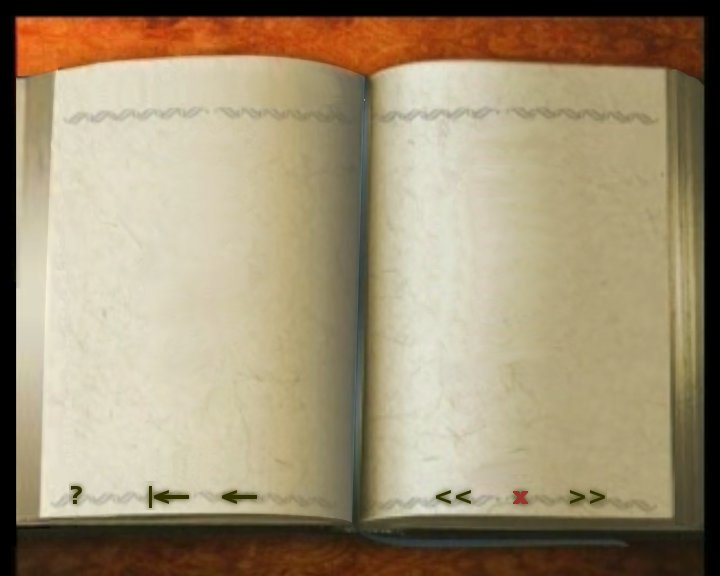
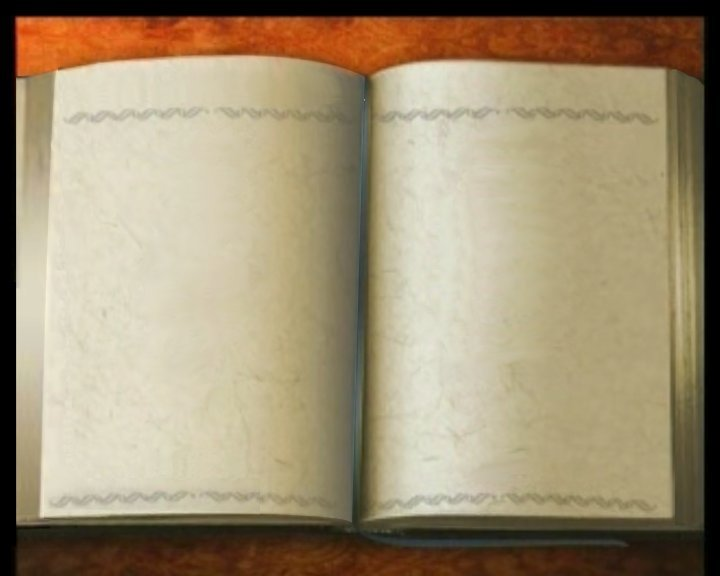
1.4.1 Added ability to render in one column. Removed control buttons from web video output. Fixed bugs.

diff --git a/chrome/word-dvd/content/web/text.js b/chrome/word-dvd/content/web/text.js
@@ -1,7 +1,7 @@
 // JavaScript Document
 const SPACE = " ";
 var MainWin, RenderWin;
-var PageElem1, PageElem2, Body;
+var PageElem1, PageElem2,Body;
 var DebugChapter=0;
 var DebugPage=0;
 
@@ -17,14 +17,16 @@ if (MainWin.CssFile) {
 }
   
 function init() {
-  PageElem1 = document.getElementById("p1");
-  PageElem2 = document.getElementById("p2");
+  PageElem1 = document.getElementById("text-p1");
+  PageElem2 = document.getElementById("text-p2");
   Body = document.getElementById("body");
   RenderWin = window.frameElement.ownerDocument.defaultView;
   var rule1 = getCSS(".title-1");
   var rule2 = getCSS(".title-2");
   CSSHeading1Color = rule1.style.color;
   CSSHeading2Color = rule2.style.color;
+  if (!MainWin.document.getElementById("runvideo").selected) 
+	document.getElementById("text-controls").setAttribute("src", "file://" + MainWin.UIfile[MainWin.INDIR].path + "/" + MainWin.RESOURCE + "/control-buttons.png");
 }
 
 function fitScreen(book, chapter, aPage, textOnly, skipPage1, skipPage2) {

diff --git a/chrome/word-dvd/content/render.js b/chrome/word-dvd/content/render.js
@@ -380,7 +380,6 @@ function renderNewScreen() {
   mdoc.getElementById("imagePageLeft").style.visibility = "hidden";
   mdoc.getElementById("imagePageRight").style.visibility = "hidden";
   var skipPage1 = false;
-  var skipPage2 = false;
   var artwork;
   if (Page.pagenumber==1 && Chapter==1) artwork = getSubFilePath(MainWin.UIfile[MainWin.INDIR], Book[Bindex].shortName + "-1" + ".png");
   if (artwork) {
@@ -388,6 +387,8 @@ function renderNewScreen() {
     mdoc.getElementById("imagePageLeft").src = "File://" + artwork;
     mdoc.getElementById("imagePageLeft").style.visibility = "visible";
   }
+  var tstyle = mdoc.defaultView.getComputedStyle(mdoc.getElementById("text-p2"), null);
+  var skipPage2 = (tstyle.visibility == "hidden"); // this allows single column display by setting text-p2 visibility=hidden
   
   RenderFrame.contentDocument.defaultView.fitScreen(Book[Bindex].shortName, Chapter, Page, false, skipPage1, skipPage2);
 //window.alert("STOPPING");

diff --git a/chrome/word-dvd/content/web/menu.html b/chrome/word-dvd/content/web/menu.html
@@ -8,7 +8,7 @@
   </head>
   <body id="body" class="menu" onload="init();">
     <div class="usable">
-      <div id="p1" class="page">
+      <div id="menu-p1" class="page">
         <div class="header" id="p1head"></div>
         <div class="button" id="p1b1"></div>
         <div class="button" id="p1b2"></div>
@@ -20,7 +20,7 @@
         <div class="button" id="p1b8"></div>
         <div class="navbutton" id="p1foot"></div>
       </div> 
-      <div id="p2" class="page">
+      <div id="menu-p2" class="page">
         <div class="header" id="p2head"></div>
         <div class="button" id="p2b1"></div>
         <div class="button" id="p2b2"></div>

diff --git a/html/pal.css b/html/pal.css
@@ -38,7 +38,7 @@ body {
   padding-bottom:12px;
 }
 
-#p1 {
+#menu-p1 {
   margin-right:18px;
   top:0px;
   right:50%;
@@ -46,7 +46,23 @@ body {
   left:0px;
 }
 
-#p2 {
+#menu-p2 {
+  margin-left:18px;
+  top:0px;
+  right:0px;
+  bottom:45px;
+  left:50%;
+}
+
+#text-p1 {
+  margin-right:18px;
+  top:0px;
+  right:50%;
+  bottom:45px;
+  left:0px;
+}
+
+#text-p2 {
   margin-left:18px;
   top:0px;
   right:0px;
@@ -147,6 +163,14 @@ body {
   top:0px;
   visibility:hidden;
   z-index:2;
+}
+
+#text-controls {
+  position:absolute;
+  text-align:center;
+  left:0px;
+  top:0px;
+  z-index:3;
 }
 
 .menuartworkleft {

diff --git a/chrome/word-dvd/content/word-dvd.js b/chrome/word-dvd/content/word-dvd.js
@@ -284,6 +284,17 @@ function handleInput(elem) {
       document.getElementById("skiptext").disabled = false;  
     }
     break;
+    
+    case "runvideo":
+		document.getElementById("skipmenus").checked = true;
+		document.getElementById("skipfootnotes").checked = true;
+    break;
+    
+    case "runword-dvd":
+		document.getElementById("skipmenus").checked = false;
+		document.getElementById("skipfootnotes").checked = false;
+    break;
+    
   }
   
   enableGO();

diff --git a/chrome/word-dvd/content/web/text.html b/chrome/word-dvd/content/web/text.html
@@ -8,10 +8,11 @@
   </head>
   <body id="body" class="content" onload="init();">
     <div class="usable">
-      <div id="p1" class="page"></div> 
-      <div id="p2" class="page"></div>
+      <div id="text-p1" class="page"></div> 
+      <div id="text-p2" class="page"></div>
     </div>
     <img id="imagePageLeft"  src="">
     <img id="imagePageRight" src="">
+    <img id="text-controls" src="">
   </body>
 </html>
